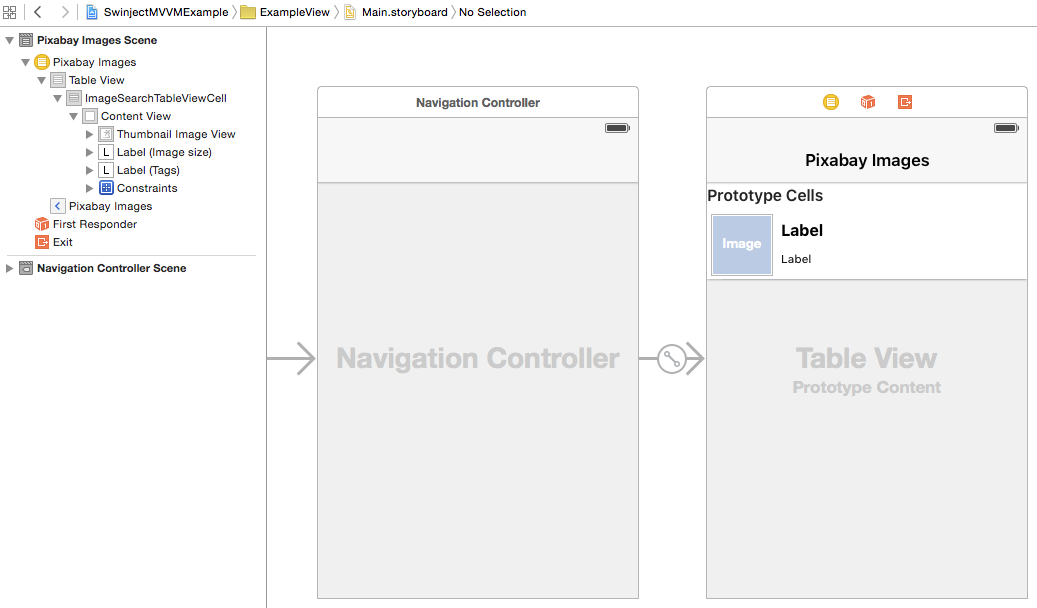
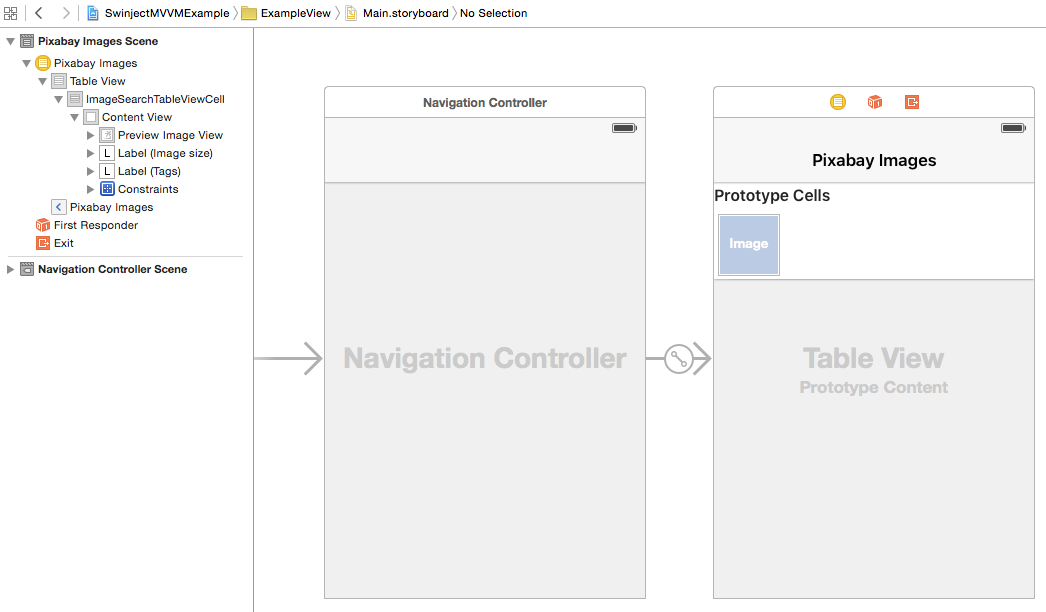
Edit the post to make it publish quality.

diff --git a/content/post/2015-09-02-dependency-injection-in-mvvm-architecture-with-reactivecocoa-part4-implementing-the-view-and-viewmodel.md b/content/post/2015-09-02-dependency-injection-in-mvvm-architecture-with-reactivecocoa-part4-implementing-the-view-and-viewmodel.md
@@ -1,29 +1,26 @@
 +++
 date = "2015-09-02T12:10:55+09:00"
-draft = "true"
 slug = "dependency-injection-in-mvvm-architecture-with-reactivecocoa-part-4-implementing-the-view-and-viewmodel"
 tags = ["swinject", "dependency-injection", "mvvm", "reactivecocoa", "swift"]
 title = "Dependency Injection in MVVM Architecture with ReactiveCocoa Part 4: Implementing the View and ViewModel"
 
 +++
 
-In [the last blog post](/post/dependency-injection-in-mvvm-architecture-with-reactivecocoa-part-3-designing-the-model/), we developed the Model part of the example app. In this blog post, we will move on to the View and ViewModel parts. First, empty implementations of View and ViewModel will be added to get working software. Then actual implementations will be added. During the development, we will learn how to use `PropertyOf` and `MutableProperty`, which are observable property types provided by [ReactiveCocoa](https://github.com/ReactiveCocoa/ReactiveCocoa/).
+In [the last blog post](/post/dependency-injection-in-mvvm-architecture-with-reactivecocoa-part-3-designing-the-model/), we developed the Model part of the example app. In this blog post, we will move on to the View and ViewModel parts. First, empty implementation of View and ViewModel will be added to the project to get working software. Then actual implementation will be added with unit tests. During the development, we will learn how to use `PropertyOf` and `MutableProperty` types, which are observable properties provided by [ReactiveCocoa](https://github.com/ReactiveCocoa/ReactiveCocoa/).
 
 ## Notice
 
-In the example project, Swift 2.0 with Xcode 7 are used though they are still in beta versions. To use with Swift 2.0, a development version of ReactiveCocoa in [swift2 branch](https://github.com/ReactiveCocoa/ReactiveCocoa/tree/swift2) will be used. Notice that ReactiveCocoa 3.0 has functional style APIs like `|> map` or `|> flatMap`, but APIs in swift2 branch are in protocol oriented and fluent style like `.map()` or `.flatMap()`. Since swift2 branch is still in development, the APIs might be changed in the future.
+In the example project, Swift 2.0 with Xcode 7 is used though they are still in beta versions. To use with Swift 2.0, a development version of ReactiveCocoa in [swift2 branch](https://github.com/ReactiveCocoa/ReactiveCocoa/tree/swift2) is used. Notice that ReactiveCocoa 3.0 has functional style APIs like `|> map` or `|> flatMap`, but APIs in swift2 branch are in protocol oriented and fluent style like `.map()` or `.flatMap()`. Since swift2 branch is still in development, the APIs might be changed in the future.
 
 ## View and ViewModel Design Overview
 
-To decouple View and ViewModel, the interfaces are defined by protocols. In the diagram below, `ImageSearchTableViewModeling` and `ImageSearchTableViewCellModeling` are protocols. `ImageSearchTableViewModel` and `ImageSearchTableViewCellModel` are their implementations conforming the protocols. `ImageSearchTableViewModel` receives image entities wrapped in an event from the Model layer, and converts them to `ImageSearchTableViewCellModel`s to pass to `ImageSearchTableViewController`.
-
-
+To decouple View and ViewModel, the interfaces are defined as protocols as shown in the diagram below. `ImageSearchTableViewModeling` and `ImageSearchTableViewCellModeling` are protocols. `ImageSearchTableViewModel` and `ImageSearchTableViewCellModel` are their implementation conforming the protocols. `ImageSearchTableViewModel` receives image entities wrapped in an event from the Model layer, and converts them to `ImageSearchTableViewCellModel` instances to pass to `ImageSearchTableViewController` in an event.
 
 ![View and View Model Design](/images/post/2015-09/SwinjectMVVMExampleViewAndViewModelDesign.png)
 
-## Empty Implementations of View and ViewModel
+## Empty Implementation of View and ViewModel
 
-At the beginning, we are going to add empty implementations of View and ViewModel with their dependencies injected by [Swinject](https://github.com/Swinject/Swinject). You can get still empty but working software first, then add features one by one as [the Agile practices](https://en.wikipedia.org/wiki/Agile_software_development) promote.
+At the beginning, we are going to add empty implementation of View and ViewModel with dependency injection by [Swinject](https://github.com/Swinject/Swinject). You can get still empty but working software first, then add features one by one as [the Agile practices](https://en.wikipedia.org/wiki/Agile_software_development) promote.
 
 ### Adding Empty View
 
@@ -58,7 +55,7 @@ Select the table view controller, which is the root view controller of the navig
 ![SwinjectMVVMExampleEmptyViewStoryboard](/images/post/2015-09/SwinjectMVVMExampleEmptyViewStoryboard.png)
 
 
-Modify `AppDelegate.swift` in `SwinjectMVVMExample` group to instantiate the initial view controller from the storyboard by hand. Here, we use `SwinjectStoryboard` instead of `UIStoryboard` to add dependency injection later. The instantiation of `SwinjectStoryboard` is not performed with a initializer but `create` function[^1]. The bundle passed to `SwinjectStoryboard` is not the main bundle but the bundle in `ExampleView` target. `NSBundle.init(forClass:)` is used to get the bundle.
+Modify `AppDelegate.swift` in `SwinjectMVVMExample` group to instantiate the initial view controller from the storyboard by hand. Here, we use `SwinjectStoryboard` instead of `UIStoryboard` to add dependency injection later. The instantiation of `SwinjectStoryboard` is not performed with an initializer but `create` function[^1]. The bundle passed to `SwinjectStoryboard` is not the main bundle but the bundle in `ExampleView` target. `NSBundle.init(forClass:)` is used to get the bundle.
 
 **AppDelegate.swift**
 
@@ -126,7 +123,7 @@ Add `ImageSearchTableViewCellModeling.swift` and `ImageSearchTableViewCellModel.
     public final class ImageSearchTableViewCellModel: ImageSearchTableViewCellModeling {
     }
 
-Add the dependencies on the view models to `ImageSearchTableViewController` and `ImageSearchTableViewCell` by [property injection pattern](https://github.com/Swinject/Swinject/blob/master/Documentation/InjectionPatterns.md).
+Add the dependencies on the view models to `ImageSearchTableViewController` and `ImageSearchTableViewCell` as below by [property injection pattern](https://github.com/Swinject/Swinject/blob/master/Documentation/InjectionPatterns.md).
 
 **ImageSearchTableViewController.swift**
 
@@ -148,7 +145,7 @@ Add the dependencies on the view models to `ImageSearchTableViewController` and 
 
 ### Applying Dependency Injection
 
-To apply dependency injection in `AppDelegate, add `container` property with the registrations of the dependencies as below. The `container` is passed to `SwinjectStoryboard` when it is created.
+To apply dependency injection in `AppDelegate`, add `container` property registering the dependencies as below. The `container` is passed to the factory method of `SwinjectStoryboard`.
 
 **AppDelegate.swift**
 
@@ -205,7 +202,7 @@ To apply dependency injection in `AppDelegate, add `container` property with the
         // Omitted...
     }
 
-To ensure all the types are registered to `container`, we should add unit tests. Before adding the tests, delete  `SwinjectMVVMExampleTests.swift`, which is unnecessary, in `SwinjectMVVMExampleTests` group. Then add `AppDelegateSpec.swift` with the following content. The tests use `.notTo(beNil())` to check the types can be resolved by `container`.
+To ensure all the types are registered to `container`, we should add unit tests. Before adding the tests, delete  `SwinjectMVVMExampleTests.swift`, which is unnecessary, in `SwinjectMVVMExampleTests` group. Then add `AppDelegateSpec.swift` with the following content to the group. The tests use `.notTo(beNil())` to check the types can be resolved by `container`.
 
 **AppDelegateSpec.swift**
 
@@ -250,11 +247,11 @@ To ensure all the types are registered to `container`, we should add unit tests.
         }
     }
 
-Type `Command-U` and run the unit tests. Passed, right? We got the empty implementations of View and ViewModel with the dependencies injected.
+Input `Command-U` and run the unit tests. Passed, right? We got the empty implementation of View and ViewModel with the dependencies injected.
 
 ## Actual Implementation of View and ViewModel
 
-In this section, we are going to add actual implementations of View and ViewModel to the project to display image meta data (tags and pixel sizes) in the table view. Although we will add a `UIImageView` to the table view cell, only the labels for the meta data are implemented in this blog post. The image view will be used in the next blog post.
+In this section, we are going to add actual implementation of View and ViewModel to display image meta data (tags and pixel sizes) in the table view. Although we will add a `UIImageView` to the table view cell, only the labels for the meta data are implemented in this blog post. The image view will be used in the next blog post.
 
 ### ViewModel Implementation
 
@@ -269,7 +266,7 @@ First, let's implement the table data source. In MVVM architecture, the data sou
         func startSearch()
     }
 
-`cellModels` property is defined as [`PropertyOf` type](https://github.com/ReactiveCocoa/ReactiveCocoa/blob/master/ReactiveCocoa/Swift/Property.swift) to make it observable. The type provides `producer` property as `SignalProducer` to add an observer.
+`cellModels` property is defined as [`PropertyOf` type](https://github.com/ReactiveCocoa/ReactiveCocoa/blob/master/ReactiveCocoa/Swift/Property.swift) to make it observable. The type provides `producer` property as `SignalProducer` type to add observers.
 
 Modify `ImageSearchTableViewModel` to implement the property and method.
 
@@ -293,7 +290,10 @@ Modify `ImageSearchTableViewModel` to implement the property and method.
         public func startSearch() {
             imageSearch.searchImages()
                 .map { response in
-                    response.images.map { ImageSearchTableViewCellModel(image: $0) as ImageSearchTableViewCellModeling }
+                    response.images.map {
+                        ImageSearchTableViewCellModel(image: $0)
+                            as ImageSearchTableViewCellModeling
+                    }
                 }
                 .observeOn(UIScheduler())
                 .on(next: { cellModels in
@@ -304,9 +304,9 @@ Modify `ImageSearchTableViewModel` to implement the property and method.
     }
 ```
 
-`cellModels` property wraps `_cellModels` property as [`MutableProperty` type](https://github.com/ReactiveCocoa/ReactiveCocoa/blob/master/Documentation/FrameworkOverview.md#properties). Because the type is not only observable but also modifiable, `_cellModels` is `private` and is wrapped by `PropertyOf` type, which is read-only.
+`cellModels` property wraps `_cellModels` property as [`MutableProperty` type](https://github.com/ReactiveCocoa/ReactiveCocoa/blob/master/Documentation/FrameworkOverview.md#properties). Because the type is not only observable but also modifiable, `_cellModels` is `private` and is wrapped by `PropertyOf` type to provide a read-only property.
 
-`startSearch` method starts the `SignalProducer` returned by `imageSearch.searchImages`. As a side effect, it sets the value of `_cellModels` to an array of `ImageSearchTableViewCellModeling`s that is mapped from `response` from `imageSearch`. Notice that the side effect is configured to run in the main thread by `.observeOn(UIScheduler())`. ViewModel should ensure that events from ViewModel to View are performed in the main thread.
+`startSearch` method starts the `SignalProducer` returned by `imageSearch.searchImages`. As a side effect on the `next` event, it sets the value of `_cellModels` to an array of `ImageSearchTableViewCellModeling` instances that is mapped from `response` from `imageSearch`. Notice that the side effect is configured to run in the main thread by `.observeOn(UIScheduler())`. ViewModel should ensure that events from ViewModel to View are performed in the main thread.
 
 ReactiveCocoa provides two types of schedulers to run on the main thread. One is `QueueScheduler.mainQueueScheduler`, which delivers events always on the main thread asynchronously. The other is `UIScheduler`, as we used, which delivers events on the main thread synchronously if they are already on the main thread, otherwise asynchronously.
 
@@ -469,7 +469,7 @@ In this section, we are going to implement our View. Open `Main.storyboard` and 
 
 ![SwinjectMVVMExampleStoryboardCellLayout](/images/post/2015-09/SwinjectMVVMExampleStoryboardCellLayout.png)
 
-Then add outlets to `ImageSearchTableViewCell` and connect them.
+Then add outlets to `ImageSearchTableViewCell` and connect them with the items in the storyboard.
 
 **ImageSearchTableViewCell.swift**
 
@@ -484,12 +484,12 @@ Then add outlets to `ImageSearchTableViewCell` and connect them.
             }
         }
 
-        @IBOutlet weak var thumbnailImageView: UIImageView!
+        @IBOutlet weak var previewImageView: UIImageView!
         @IBOutlet weak var tagLabel: UILabel!
         @IBOutlet weak var imageSizeLabel: UILabel!
     }
 
-Also `didSet` observer is added to `viewModel` property to set label texts when the view model is assigned.
+Notice `didSet` observer is added to `viewModel` property to set label texts when the view model is assigned. An image will be added to the image view in the next blog post.
 
 Add implementation to `ImageSearchTableViewController` as below.
 
@@ -610,7 +610,7 @@ Type `Command-U` and run the test. Passed!
 
 ## Conclusion
 
-We implemented the View and ViewModel parts of the example app. First, the empty View and ViewModel were added to the project and wired up by dependency injection to get working software as the agile practices promote. Then the actual implementations were added. We learned `PropertyType`s of ReactiveCocoa. `MutableProperty` was used as an observable property with its value modifiable. `PropertyOf` was used to provide a read-only view to `MutableProperty`. In the next blog post, we are going to implement asynchronous image load feature.
+We implemented the View and ViewModel parts of the example app. First, the empty implementation of View and ViewModel was added to the project to get working software as the agile practices promote. Then the actual implementation was added. It was demonstrated that the dependencies of Model, View and ViewModel were injected by the application. By adding `container` as a property of `AppDelegate`, the dependency injection was tested. We learned property types of ReactiveCocoa. `MutableProperty` was used as an observable property with its value modifiable. `PropertyOf` was used to provide a read-only view to `MutableProperty`. In the next blog post, we will implement asynchronous image load feature.
 
 If you have questions, suggestions or problems, feel free to leave comments.
 
